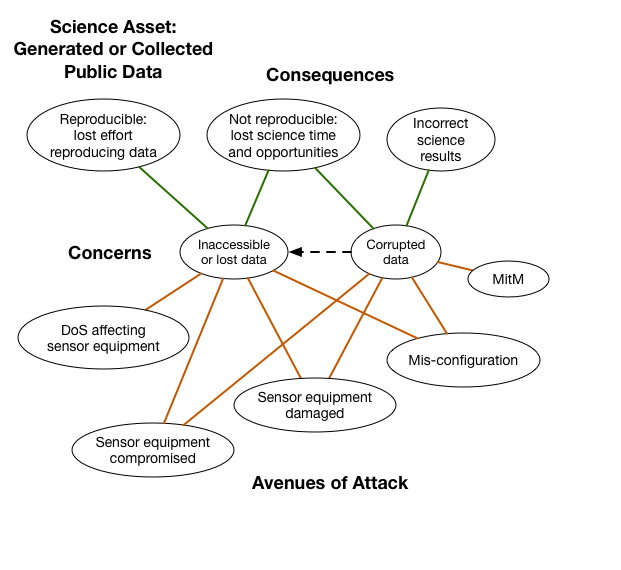
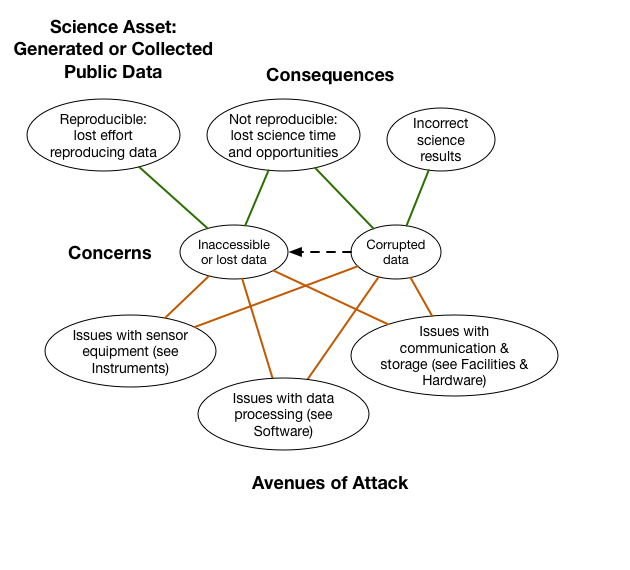
Changed public data to reference other assets.

diff --git a/assets/Public Data.md b/assets/Public Data.md
@@ -6,4 +6,8 @@ permalink: assets/Public%20Data.html
 
 # Public Data
 
+*Primary Asset Type:*  Public Data
+
+Any type of data element ranging from raw instrument data to finished scientific results.  Data assets should be considered both while they are on storage systems or while they are in transit.
+
 ![Public-Data](../diagrams/Public%20Data.png)
